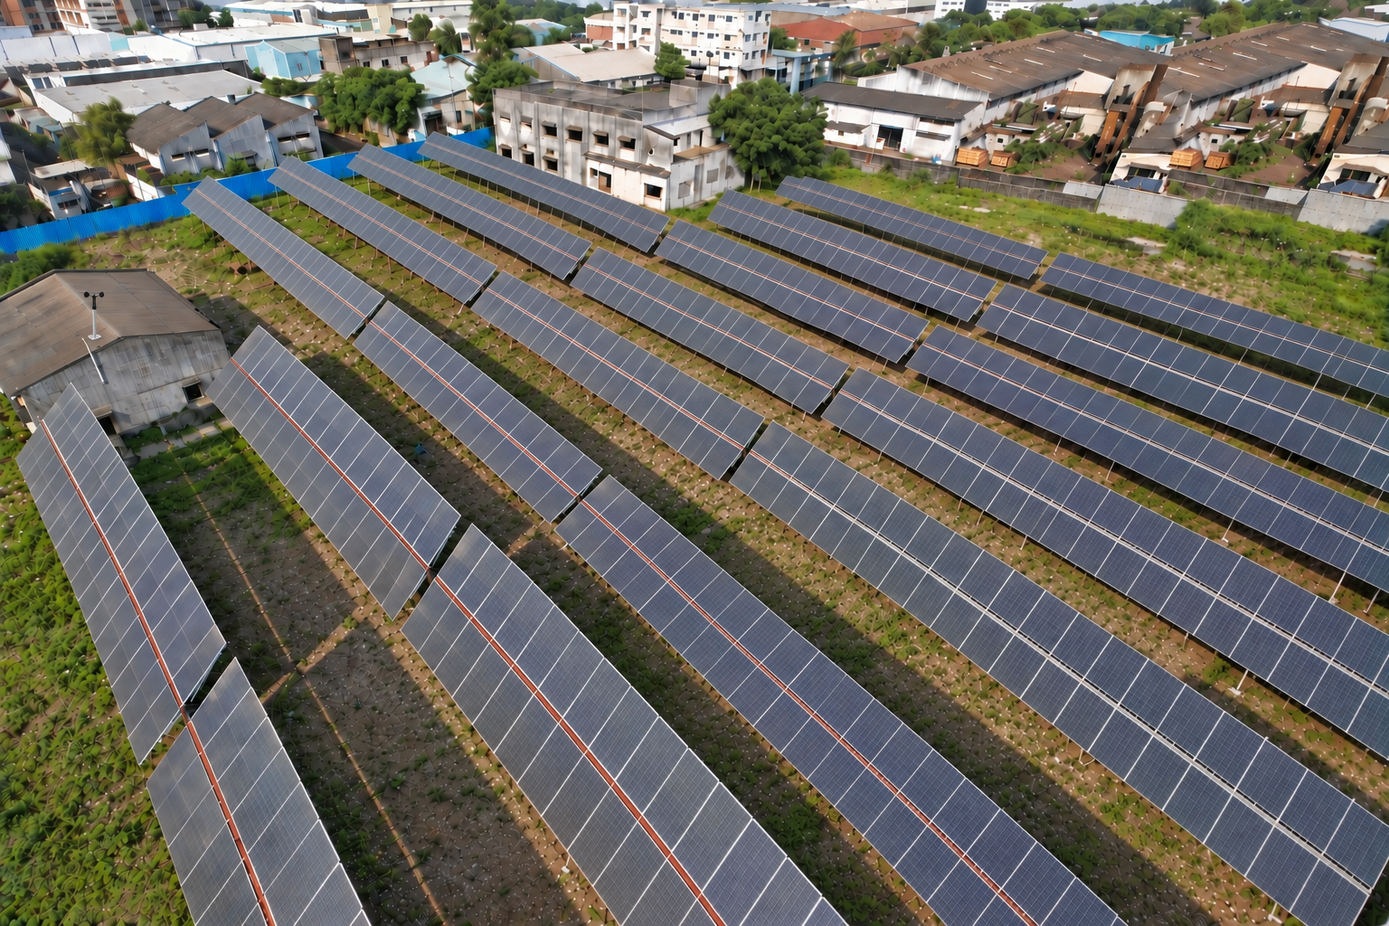
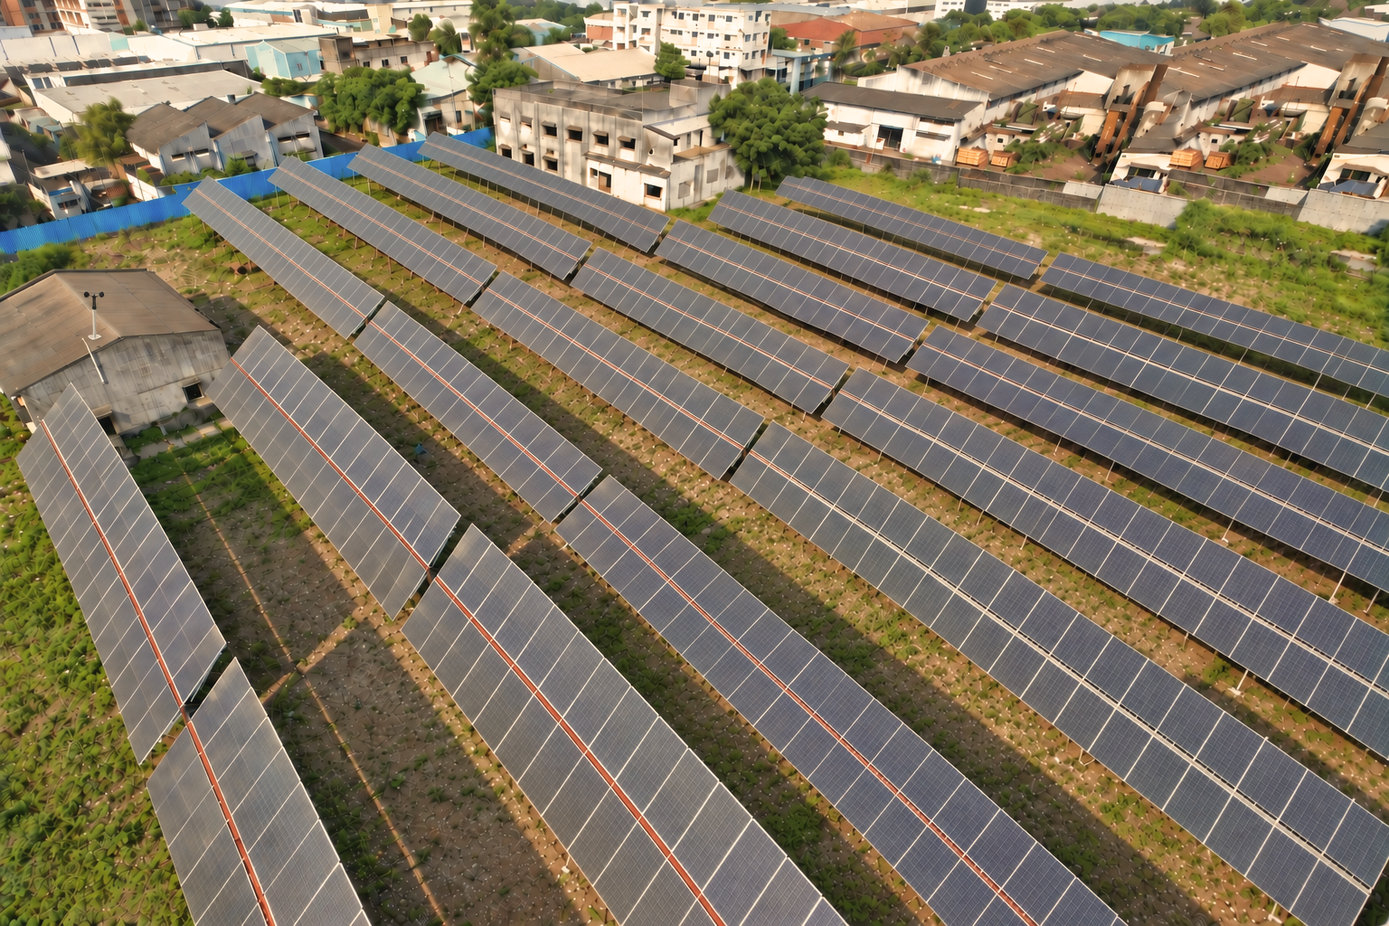
Sync updated tracking photo and refine A4 spacing with PDF layout guards

diff --git a/qa/page-spacing.test.js b/qa/page-spacing.test.js
@@ -1,0 +1,92 @@
+/* A4 whitespace refinement: content remains legible and inside page/footers. */
+'use strict';
+const assert=require('node:assert/strict'),fs=require('fs'),path=require('path'),puppeteer=require('puppeteer-core');
+let passed=0;const check=(name,ok)=>{assert(ok,name);passed++;console.log('  ✓ '+name);};
+(async()=>{
+ const {default:chromium}=await import('@sparticuz/chromium');
+ const browser=await puppeteer.launch({executablePath:await chromium.executablePath(),args:chromium.args.filter(a=>a!=='--single-process'),headless:true});
+ try{
+  const page=await browser.newPage(),errors=[];page.on('pageerror',e=>errors.push(e.message));
+  const base=process.env.QA_BASE||'http://127.0.0.1:8080';
+  await page.setViewport({width:1440,height:1200});await page.goto(base+'/quotation.html',{waitUntil:'networkidle0'});await page.evaluate(()=>document.fonts.ready);
+  await page.evaluate(()=>{
+   const ctx=document.getElementById('chartBridge').getContext('2d'),native=ctx.fillText;
+   window.__bridgeLabels=[];ctx.fillText=function(text,...args){window.__bridgeLabels.push(String(text));return native.call(this,text,...args);};Render.renderAll();
+  });
+  check('cost chart draws the actual GST rate, never undefined text',await page.evaluate(()=>__bridgeLabels.includes('8.9%')&&!__bridgeLabels.some(v=>/undefined|NaN|Infinity/.test(v))));
+  const originals=await page.evaluate(()=>({form:StateStore.collectForm(),finance:JSON.stringify(Finance.compute(Render.lastState)),cover:document.getElementById('pageCover').outerHTML,diagram:document.getElementById('v_tsDiagram').innerHTML}));
+  async function geometry(label){
+   const issues=await page.evaluate(()=>[...document.querySelectorAll('.page')].filter(p=>p.checkVisibility()).flatMap(p=>{
+    const bad=[],box=p.getBoundingClientRect(),scale=box.width/794,body=p.querySelector('.pg-body'),foot=p.querySelector('.pg-foot');
+    if(p.scrollHeight>1124)bad.push(p.id+': page overflow');
+    if(body&&foot){
+     const children=[...body.children].filter(c=>c.checkVisibility()),limit=foot.getBoundingClientRect().top;
+     for(const c of children){const r=c.getBoundingClientRect();if(r.bottom>limit+.8||r.left<box.left-.8||r.right>box.right+.8)bad.push(p.id+': outside page/footer '+(c.id||c.className)+' ('+Math.round((r.bottom-limit)/scale)+'px)');}
+     const note=body.querySelector('.footer-note');if(note){const n=note.getBoundingClientRect();for(const c of children.filter(c=>c!==note))if(c.getBoundingClientRect().bottom>n.top+.8)bad.push(p.id+': overlaps footer note');}
+    }
+    const photo=p.querySelector('.photo-top'),intro=p.querySelector('.intro-col');
+    if(photo&&intro){const a=photo.getBoundingClientRect(),b=intro.getBoundingClientRect();if(a.left<b.right-.8||a.bottom>b.bottom+.8)bad.push(p.id+': photo overlaps text or next section');}
+    for(const c of p.querySelectorAll('.card,.kpi-tile,.commit-card,.term-item')){
+     if(!c.checkVisibility())continue;
+     if(c.scrollWidth>c.clientWidth+1)bad.push(p.id+': text horizontally overflows card');
+     const r=c.getBoundingClientRect();for(const child of c.children){if(!child.checkVisibility())continue;const q=child.getBoundingClientRect();if(q.bottom>r.bottom+scale||q.right>r.right+scale)bad.push(p.id+': text outside card');}
+    }
+    return bad;
+   }));check(label+' fits A4 with no card/photo/footer collisions: '+issues.join(', '),issues.length===0);
+  }
+  await geometry('Default 7 kWp');
+  check('benefits and solution use wider two-column cards',await page.evaluate(()=>['v_wsBenefits','v_soSpecs','v_quStandards','v_quChecklist'].every(id=>getComputedStyle(document.getElementById(id)).gridTemplateColumns.split(' ').length===2)));
+  check('body and card text enlarged moderately, not globally',await page.evaluate(()=>getComputedStyle(document.getElementById('v_wsPara')).fontSize==='12.2px'&&getComputedStyle(document.querySelector('#pageWhySolar .card-desc')).fontSize==='11.5px'&&getComputedStyle(document.getElementById('v_tsPara')).fontSize==='11.4px'));
+  check('large unused areas reduced on summary, benefits, solution and quality',await page.evaluate(()=>[
+   ['pageExec','#v_exTraceNote',880],['pageWhySolar','#v_wsBenefits',900],['pageSolution','.highlight-bar',980],['pageQuality','#v_quChecklist',930]
+  ].every(([id,selector,min])=>{const p=document.getElementById(id),r=p.getBoundingClientRect();return (p.querySelector(selector).getBoundingClientRect().bottom-r.top)/(r.width/794)>=min;})));
+  check('portfolio keeps ten normal cards at the approved size',await page.$$eval('#pageProjects .pc-photo',els=>els.length===10&&els.every(e=>e.offsetHeight===132)));
+  for(const capacity of ['10','20','100']){await page.evaluate(cap=>{StateStore.applyForm({capacity:cap});Render.renderAll();},capacity);await geometry(capacity+' kWp');}
+  await page.evaluate(()=>{
+   StateStore.applyForm({capacity:'25',customerType:'commercial',monthlyBill:'50000',loanAmt:'500000',loanRate:'9',loanYears:'10',bomModules:'600000',bomInverter:'150000',bomStructure:'150000',bomBos:'100000',bomInstall:'100000',bomLiaison:'50000',availableArea:'200',arkaUrl:'https://example.com/layout',pvsystUrl:'https://example.com/report'});
+   window.__qsOptions=[{id:'a',name:'Option A',fields:{capacity:'25'}},{id:'b',name:'Option B',fields:{capacity:'30'}}];Render.renderAll();
+  });
+  await geometry('Commercial: bill, BOM, loan, options and technical reports');
+  check('dense cost charts retain full width and redraw at compact height',await page.evaluate(()=>chartBridge.clientWidth===718&&chartBridge.clientHeight===180&&chartDonut.clientWidth===150&&!!document.querySelector('#v_inTaxIcon svg')));
+  check('all seventeen optional pages are present for stress review',await page.evaluate(()=>Render.lastVisible.length===17));
+  await page.emulateMediaType('print');await geometry('Print with optional content');await page.emulateMediaType('screen');
+  const output=path.join(__dirname,'shots','page-spacing');fs.mkdirSync(output,{recursive:true});
+  for(const name of fs.readdirSync(output))if(name.endsWith('.pdf'))fs.unlinkSync(path.join(output,name));
+  const cdp=await page.createCDPSession();await cdp.send('Browser.setDownloadBehavior',{behavior:'allow',downloadPath:output,eventsEnabled:true});
+  let timer;const done=new Promise((resolve,reject)=>{timer=setTimeout(()=>reject(new Error('PDF download timed out')),120000);cdp.on('Browser.downloadProgress',event=>{if(event.state==='completed'){clearTimeout(timer);resolve();}if(event.state==='canceled'){clearTimeout(timer);reject(new Error('Download canceled'));}});});done.catch(()=>{});
+  await page.evaluate(()=>{
+   const native=html2canvas;window.__layoutProofs={};window.__layoutCaptureCount=0;
+   window.__restoreCapture=()=>{window.html2canvas=native;};
+   window.html2canvas=async(el,options)=>{
+    const body=el.querySelector('.pg-body'),foot=el.querySelector('.pg-foot');
+    if(body&&foot&&[...body.children].some(c=>c.checkVisibility()&&c.getBoundingClientRect().bottom>foot.getBoundingClientRect().top+1))throw new Error('PDF footer collision: '+el.id);
+    const canvas=await native(el,options);window.__layoutCaptureCount++;
+    if(el.id==='pageWhySolar'){
+     const page=el.getBoundingClientRect(),chip=el.querySelector('.icon-chip').getBoundingClientRect(),scale=canvas.width/page.width;
+     const pixels=canvas.getContext('2d').getImageData(Math.round((chip.left-page.left+9)*scale),Math.round((chip.top-page.top+9)*scale),Math.round(12*scale),Math.round(12*scale)).data;
+     window.__layoutIconInk=0;for(let i=0;i<pixels.length;i+=4)if(pixels[i]>240&&pixels[i+1]>240&&pixels[i+2]>240)window.__layoutIconInk++;
+     if(window.__layoutIconInk<5)throw new Error('White icon is missing from full-page PDF capture');
+    }
+    if(['pageWhySolar','pageQuality','pageTechSpec','pageInvestment','pageProjects'].includes(el.id))window.__layoutProofs[el.id]=canvas.toDataURL('image/png');
+    return canvas;
+   };
+  });
+  try{await page.click('#downloadBtn');await page.waitForFunction(()=>statusMsg.textContent.includes('Downloaded'),{timeout:120000});await done;}finally{clearTimeout(timer);await page.evaluate(()=>__restoreCapture());}
+  check('actual PDF capture fits all 17 pages including optional details',await page.evaluate(()=>__layoutCaptureCount===17));
+  const pdf=fs.readdirSync(output).find(name=>name.endsWith('.pdf'));
+  check('actual PDF keeps white pictograms visible above orange icon backgrounds',await page.evaluate(()=>__layoutIconInk>=5));
+  check('17-page stress-case PDF downloaded',!!pdf&&(fs.readFileSync(path.join(output,pdf),'latin1').match(/\/Type \/Page\b/g)||[]).length===17);
+  const proofs=await page.evaluate(()=>__layoutProofs);for(const [id,data] of Object.entries(proofs))fs.writeFileSync(path.join(output,id+'.png'),Buffer.from(data.split(',')[1],'base64'));
+  await page.evaluate(form=>{StateStore.applyForm({...form,moduleMake:'Custom high-efficiency photovoltaic modules — reviewed equipment make',inverterMake:'Custom three-phase grid-connected inverter'});window.__qsOptions=[];Render.renderAll();},originals.form);
+  await geometry('Long custom equipment names');
+  await page.evaluate(form=>{StateStore.applyForm(form);Render.renderAll();window.__qsSaveNow();},originals.form);
+  check('clearing BOM restores the original full-size cost chart',await page.evaluate(()=>chartBridge.clientWidth===718&&chartBridge.clientHeight===252&&!document.getElementById('pageTechSpec').classList.contains('has-site-area')));
+  check('layout changes do not alter financial output',await page.evaluate(fin=>JSON.stringify(Finance.compute(Render.lastState))===fin,originals.finance));
+  await page.setViewport({width:390,height:844});await geometry('Mobile-scaled A4');
+  check('mobile document has no horizontal scrolling',await page.evaluate(()=>document.documentElement.scrollWidth<=innerWidth));
+  const id=await page.evaluate(()=>Proposals.activeId()),customer=await browser.newPage();
+  customer.on('pageerror',e=>errors.push(e.message));await customer.goto(base+'/share.html?p='+encodeURIComponent(id),{waitUntil:'networkidle0'});
+  check('Customer View uses the same card layout and enlarged photography',await customer.evaluate(()=>document.querySelector('#pageSolution .photo-top').offsetHeight===260&&getComputedStyle(document.getElementById('v_soSpecs')).gridTemplateColumns.split(' ').length===2));
+  check('no runtime errors',errors.length===0);console.log(`\n${passed} passed, 0 failed`);
+ }finally{await browser.close();}
+})().catch(e=>{console.error(e);process.exitCode=1;});

diff --git a/assets/css/app.css b/assets/css/app.css
@@ -1547,3 +1547,100 @@ form.qs-mode-essentials [data-adv]{display:none !important;}
 #pageProjects .intro-col{flex-shrink:0;}
 .pc-photo{height:132px;display:flex;align-items:center;justify-content:center;background:var(--cream);}
 #pageProjects .proj-card[data-project="PROJ_TRACKING"] img{width:auto;height:auto;max-width:100%;max-height:100%;object-fit:contain;}
+
+/* Measured A4 whitespace refinement (September 2026).
+   Keep the cover, engineering diagram, finance tables and ten-card portfolio
+   untouched. Use the existing content more legibly, not decorative filler. */
+#pageExec .exec-hero{padding:20px 18px;}
+#pageExec .ht-v{font-size:20px;}
+#pageExec .ht-l{font-size:9px;}
+#pageExec .kpi-tile{padding:14px 12px;}
+#pageExec .kpi-l{font-size:9px;}
+#pageExec .kpi-v{font-size:14px;}
+#pageExec .inc-grid{gap:12px 18px;}
+#pageExec .inc-item{padding:7px 0;}
+#pageExec .inc-t{font-size:11.6px;}
+#pageExec .inc-d{font-size:10.4px;line-height:1.6;}
+
+:is(#pageAbout,#pageWhySolar,#pageSolution,#pageScope,#pageQuality,#pageWhyKtm,#pageWarranty,#pageTerms) .body-para{font-size:12.2px;line-height:1.78;}
+#pageAbout .photo-top{height:340px;}
+#pageAbout .spacer{max-height:64px;}
+#pageAbout .stat-card{padding:21px 10px;}
+#pageAbout .stat-card .card-title{font-size:11.2px;}
+#pageAbout .stat-card .card-desc{font-size:10px;}
+#pageAbout .feat-d{font-size:10.5px;line-height:1.55;}
+
+:is(#pageWhySolar,#pageSolution,#pageWhyKtm) .photo-top{height:260px;}
+:is(#pageWhySolar,#pageSolution,#pageWhyKtm) .intro-col{min-height:274px;}
+#pageWhySolar .spacer{max-height:40px;}
+#v_wsBenefits{grid-template-columns:repeat(2,minmax(0,1fr));}
+#pageWhySolar .benefit-card{padding:20px;min-height:170px;}
+#pageWhySolar .benefit-card .card-title{font-size:12.4px;}
+#pageWhySolar .benefit-card .card-desc{font-size:11.5px;line-height:1.7;}
+
+#pageSolution .spacer{max-height:32px;}
+#v_soSpecs{grid-template-columns:repeat(2,minmax(0,1fr));}
+#pageSolution .spec-card{padding:17px 18px;min-height:124px;}
+#pageSolution .spec-t{font-size:12px;}
+#pageSolution .spec-card .card-desc{font-size:11px;line-height:1.65;}
+
+#pageScope .photo-top{height:210px;}
+#pageScope .intro-col{min-height:224px;}
+#pageScope .spacer{max-height:56px;}
+#pageScope .deliv-t{font-size:11.4px;}
+#pageScope .resp-item .rd{font-size:10.4px;line-height:1.6;}
+#pageScope .addl-t{font-size:11px;}
+
+:is(#pageQuality,#pageWarranty) .photo-top{height:230px;}
+:is(#pageQuality,#pageWarranty) .intro-col{min-height:244px;}
+#pageQuality .spacer{max-height:40px;}
+#v_quStandards,#v_quChecklist{grid-template-columns:repeat(2,minmax(0,1fr));}
+#pageQuality .std-card{padding:18px;}
+#pageQuality .std-card .card-title{font-size:12px;}
+#pageQuality .std-card .card-desc{font-size:10.8px;line-height:1.65;}
+#pageQuality .check-t{font-size:11.5px;}
+#pageQuality .check-card .card-desc{font-size:10.5px;line-height:1.6;}
+#pageQuality .check-card{padding:16px;}
+
+#pageWhyKtm .spacer{max-height:64px;}
+#pageWhyKtm .diff-card{padding:18px;}
+#pageWhyKtm .diff-t{font-size:11.8px;}
+#pageWhyKtm .diff-card .card-desc{font-size:10.8px;line-height:1.65;}
+#pageWhyKtm .commit-card{padding:15px 9px;}
+#pageWhyKtm .commit-t{font-size:10.2px;}
+#pageWhyKtm .commit-d{font-size:9.2px;line-height:1.55;}
+
+#pageWarranty .spacer{max-height:64px;}
+#pageWarranty .warr-t,#pageWarranty .journey-t{font-size:11.6px;}
+#pageWarranty .warr-card ul,#pageWarranty .journey-card ul{font-size:10.4px;line-height:1.65;}
+#pageWarranty .journey-card{padding:18px;}
+
+#pageTerms .term-t{font-size:11.6px;}
+#pageTerms .term-d{font-size:10.6px;line-height:1.7;}
+#pageTerms .terms-grid{gap:18px 24px;}
+#pageTerms .spacer{max-height:48px;}
+#pageScope .deliv-box{padding:16px 15px;}
+#pageScope .resp-item{margin-bottom:14px;}
+#pageScope .resp-item .rt{font-size:11.4px;}
+#pageScope .addl-box{padding:12px 11px;}
+
+/* Compact only the optional dense cases. No text, disclaimers or numbers are
+   removed, and chart canvases redraw at these sizes rather than being squashed. */
+#pageTechSpec.has-site-area:has(#v_tsRefsWrap:not([style*="display: none"])) .spec-table td{padding-top:3.5px;padding-bottom:3.5px;}
+#chartBridge{width:718px!important;height:252px!important;}
+#chartDonut{width:230px!important;height:230px!important;}
+#pageInvestment:has(#v_inBomSection:not([style*="display: none"])) #chartBridge{height:180px!important;}
+#pageInvestment:has(#v_inBomSection:not([style*="display: none"])) #chartDonut{width:150px!important;height:150px!important;flex-shrink:0;}
+#pageInvestment:has(#v_inBomSection:not([style*="display: none"])) .spacer{max-height:16px;}
+#pageInvestment:has(#v_inBomSection:not([style*="display: none"])) .bom-row{padding:3.5px 0;}
+#pageInvestment:has(#v_inBomSection:not([style*="display: none"])) .bom-intro{margin-bottom:6px;}
+#pageInvestment:has(#v_inBomSection:not([style*="display: none"])) .sec-label{margin-bottom:8px;}
+#pageInvestment:has(#v_inBomSection:not([style*="display: none"])) .rule-orange{margin:9px 0;}
+#pageInvestment:has(#v_inBomSection:not([style*="display: none"])) #v_inDesc{margin:8px 0;}
+#pageInvestment:has(#v_inBomSection:not([style*="display: none"])) .tax-shield-banner{margin:4px 0;}
+#pageInvestment:has(#v_inBomSection:not([style*="display: none"])) #v_inIncludesLabel{margin-top:8px;}
+#pageInvestment:has(#v_inBomSection:not([style*="display: none"])) #v_inDisclaimer{margin-top:6px;}
+/* html2canvas can otherwise paint an inline chip background over its SVG.
+   Explicit paint order preserves the white pictograms in full-page PDFs. */
+.icon-chip{position:relative;}
+.icon-chip svg{position:relative;z-index:1;}

diff --git a/qa/visual-discovery.test.js b/qa/visual-discovery.test.js
@@ -57,7 +57,7 @@ const check = (name, ok) => {assert(ok, name);passed++;console.log('  ✓ '+name
     await layout('Default');
     await page.evaluate(()=>{for(const [id,value] of Object.entries({customerType:'commercial',monthlyBill:'50000',arkaUrl:'https://example.com/layout',pvsystUrl:'https://example.com/report'})){const e=document.getElementById(id);e.value=value;e.dispatchEvent(new Event('input',{bubbles:true}));}});
     await layout('Commercial with reports and bill');
-    check('selected story photos enlarged only where space allows',await page.evaluate(()=>document.querySelector('#pageAbout .photo-top').offsetHeight===292 && document.querySelector('#pageSolution .photo-top').offsetHeight===230 && document.querySelector('#pageScope .photo-top').offsetHeight===180));
+    check('selected story photos enlarged only where space allows',await page.evaluate(()=>document.querySelector('#pageAbout .photo-top').offsetHeight===340 && document.querySelector('#pageSolution .photo-top').offsetHeight===260 && document.querySelector('#pageScope .photo-top').offsetHeight===210));
     check('portfolio shows ten consistent actual site photos, no duplicate stock header',await page.$$eval('#pageProjects .pc-photo',els=>els.length===10 && els.every(e=>e.offsetHeight===132)) && !await page.$('#pageProjects .photo-top'));
     // Isolated A4 proofs avoid screenshots being obscured by sticky editor chrome.
     const proof=await browser.newPage();await proof.setViewport({width:794,height:1124});

diff --git a/qa/tracking-project.test.js b/qa/tracking-project.test.js
@@ -6,7 +6,7 @@ const puppeteer=require('puppeteer-core');
 const {CONTENT,PROJECT_IMAGES,upgradeProposalContent,portfolioCategories}=require('../assets/js/content.js');
 let passed=0;const check=(name,ok)=>{assert(ok,name);passed++;console.log('  ✓ '+name);};
 (async()=>{
- check('supplied PNG is preserved byte-for-byte',execFileSync('git',['hash-object','assets/images/Tracking.png'],{cwd:path.join(__dirname,'..'),encoding:'utf8'}).trim()==='213b1702f20304fd8b43b3ca54af4e730a29a7af');
+ check('supplied PNG is preserved byte-for-byte',execFileSync('git',['hash-object','assets/images/Tracking.png'],{cwd:path.join(__dirname,'..'),encoding:'utf8'}).trim()==='b876c635488fccbf11217838e7baf6899e2e1557');
  check('500 kWp tracking is separate from 1,700 kWp rooftop',CONTENT.pageProjects.featured.capacity==='500 kWp'&&CONTENT.pageProjects.featured.installation==='Ground-Mounted Solar Tracking'&&CONTENT.pageProjects.categories[0].projects[0].capacity==='1,700 kWp'&&PROJECT_IMAGES.PROJ_1_1==='assets/images/site-agarwal.jpg');
  check('confirmed Pune location is included without unprovided axis or yield claims',CONTENT.pageProjects.featured.location==='Pune, Maharashtra'&&!/single.axis|dual.axis|kWh|commissioned/i.test(JSON.stringify(CONTENT.pageProjects.featured)));
  const legacy=JSON.parse(JSON.stringify(CONTENT));delete legacy.pageProjects.featured;legacy.pageProjects.categories[0].projects[0].capacity='Custom rooftop capacity';

diff --git a/quotation.html b/quotation.html
@@ -828,7 +828,7 @@
 
           <!-- Commercial & Industrial Tax Shield Banner -->
           <div class="tax-shield-banner" id="v_inTaxShieldBanner" style="display:none;">
-            <div class="tsb-icon">🏢</div>
+            <div class="tsb-icon" id="v_inTaxIcon" aria-hidden="true"></div>
             <div class="tsb-content">
               <div class="tsb-title">ILLUSTRATIVE DEPRECIATION TAX EFFECT — NOT GUARANTEED</div>
               <div class="tsb-desc">Assuming <span id="v_inDeprRate">—</span> depreciation on the ex-GST project cost (<span id="v_inTaxDepr">—</span>) and <span id="v_inTaxRate">—</span> tax rate: potential tax effect <b id="v_inTaxSaved">—</b>. Eligibility, asset basis, commissioning date and tax regime require your tax adviser’s confirmation. Not deducted from investment or payback.</div>

diff --git a/assets/js/render.js b/assets/js/render.js
@@ -420,6 +420,7 @@
         ['Required Module Area', need + ' m² ' + (ok ? '— fits ✓' : '— exceeds available area')]
       ]);
     }
+    $('pageTechSpec').classList.toggle('has-site-area', !!s.availableArea);
     setHTML('v_tsTable', rows.join(''));
     set('v_tsNoteLabel', P.noteLabel);
     set('v_tsNote', P.note);
@@ -717,6 +718,7 @@
     set('v_inRateL', P.rateChip);
 
     /* commercial / industrial tax shield benefit (IT Act Sec 32) */
+    setHTML('v_inTaxIcon', I.get('building', 22, '#166534'));
     const taxBanner = $('v_inTaxShieldBanner');
     if (taxBanner) {
       if (f.isCommercialOrInd && f.taxShield > 0) {

diff --git a/assets/js/charts.js b/assets/js/charts.js
@@ -258,7 +258,7 @@
     }
     const steps = [
       { label: 'Project Cost', v: f.projectCost, color: NAVY, sub: 'excl. GST' },
-      { label: '+ GST', v: f.gstAmount, color: NAVY_SOFT, sub: f._gstPercent + '%', start: f.projectCost },
+      { label: '+ GST', v: f.gstAmount, color: NAVY_SOFT, sub: f.gstPercent + '%', start: f.projectCost },
       { label: '− Subsidy', v: -f.subsidy, color: GREEN, sub: f.subsidy > 0 ? 'PM Surya Ghar' : '—', start: f.grossTotal },
       { label: 'Net Payable', v: f.netInvestment, color: ORANGE, sub: 'your investment', total: true }
     ];

diff --git a/docs/layout-refinement-2026-09-22.md b/docs/layout-refinement-2026-09-22.md
@@ -1,0 +1,82 @@
+# Tracking image and restrained A4 layout refinement
+
+## Requested image
+
+Copied **only** `assets/images/Tracking.png` from GitHub `origin/main` commit
+`cfdf9b0df2c4197f38397731ae9593110dd52673`. The local and upstream Git blob hashes
+both equal `b876c635488fccbf11217838e7baf6899e2e1557`. No regeneration, crop or
+re-encoding was applied. The existing asset path means the portfolio and gallery
+use the new image; saved proposal-specific photo overrides remain respected.
+The 500 kWp ground-mounted tracking reference remains separate from the 1,700 kWp
+rooftop reference. The ten normal portfolio cards and 132px photo frames are unchanged.
+
+## Whitespace approach
+
+Reviewed every default A4 page before changing sizes. Retained breathing room
+rather than adding filler or repeating content. Changes are scoped to spacious
+story pages and the executive summary:
+
+- Modest text increases: selected body paragraphs 11.4 → 12.2px; card descriptions
+  generally around 10–11.5px, depending on the page.
+- Slightly larger existing photographs: About 292 → 340px; benefits/solution/Why
+  KTM 230 → 260px; scope 180 → 210px; quality/warranty 180 → 230px.
+- Benefits, solution and quality cards use two columns for more readable copy.
+- Shorter gaps between related sections; clearer terms and warranty text.
+- No new claims, filler copy, new stock imagery or financial assumptions.
+
+Selected default-page content endpoints, measured in unscaled A4 pixels from the
+page top (footer begins at 1089px):
+
+| Page / final content block | Before | After |
+| --- | ---: | ---: |
+| Executive summary / trace note | 819 | 905 |
+| Why Solar / benefits | 744 | 922 |
+| Proposed solution / scope note | 908 | 1013 |
+| Installation quality / checklist | 758 | 968 |
+
+The approved cover artwork/background, small-house system diagram, savings tables
+and gallery layout are preserved. Financial computation code is unchanged.
+
+## Additional PDF findings corrected
+
+The optional-content stress check exposed pre-existing overflow with site-area
+rows plus report links, and with the full commercial BOM/cost breakdown. These
+combinations now use tighter spacing. Chart canvases redraw at explicit compact
+dimensions when a BOM is present, then return to their full size when it is cleared;
+text is not scaled down and no disclaimers/rows are omitted.
+
+PDF inspection also caught a GST chart caption reading `undefined%`. The chart now
+uses the engine's actual `gstPercent` field. The tax banner's emoji was replaced
+with the existing building SVG icon to avoid missing-font glyphs. Explicit stacking
+order keeps white SVG pictograms above their orange chip backgrounds in full-page
+html2canvas captures; an actual canvas-pixel regression checks this, not just DOM
+presence.
+
+## Regression coverage
+
+`qa/page-spacing.test.js` checks default/10/20/100 kWp layouts, commercial bill,
+all six BOM entries, loan, two system options, site-area and report rows, long custom
+makes, print, mobile scaling and Customer View. It downloads a real **17-page PDF**,
+checks the actual capture path for footer collisions, saves selected page rasters
+for visual inspection, and verifies the GST caption and visible PDF icon pixels.
+
+`qa/tracking-project.test.js` now pins the updated image hash. The existing visual
+layout test retains collision assertions and checks the intentional new photograph
+sizes. Test screenshots and PDFs remain ignored QA artifacts, not repository assets.
+
+No merge or production deployment is authorized by this refinement.
+
+### Executed checks
+
+- Full unit chain: **341 checks passed**.
+- Full browser chain: **518 numbered checks passed**, plus live-cover checks and
+  real 2-/15-/16-/17-page PDF exports.
+- After the final SVG paint-order correction, reran the expanded layout suite:
+  **23 checks passed**, including the 17-page stress-case download and actual
+  white-pictogram pixel check. Also reran live-cover, visual-discovery, tracking
+  and technical-specification regressions (85 numbered checks plus live-cover).
+- Updated tracking-file identity and approved cover/background hashes verified.
+- No browser runtime errors reported by the export suite.
+
+This verifies the listed cases, not arbitrarily long custom copy or every possible
+combination of user inputs. Changes remain preview-only for user review.
